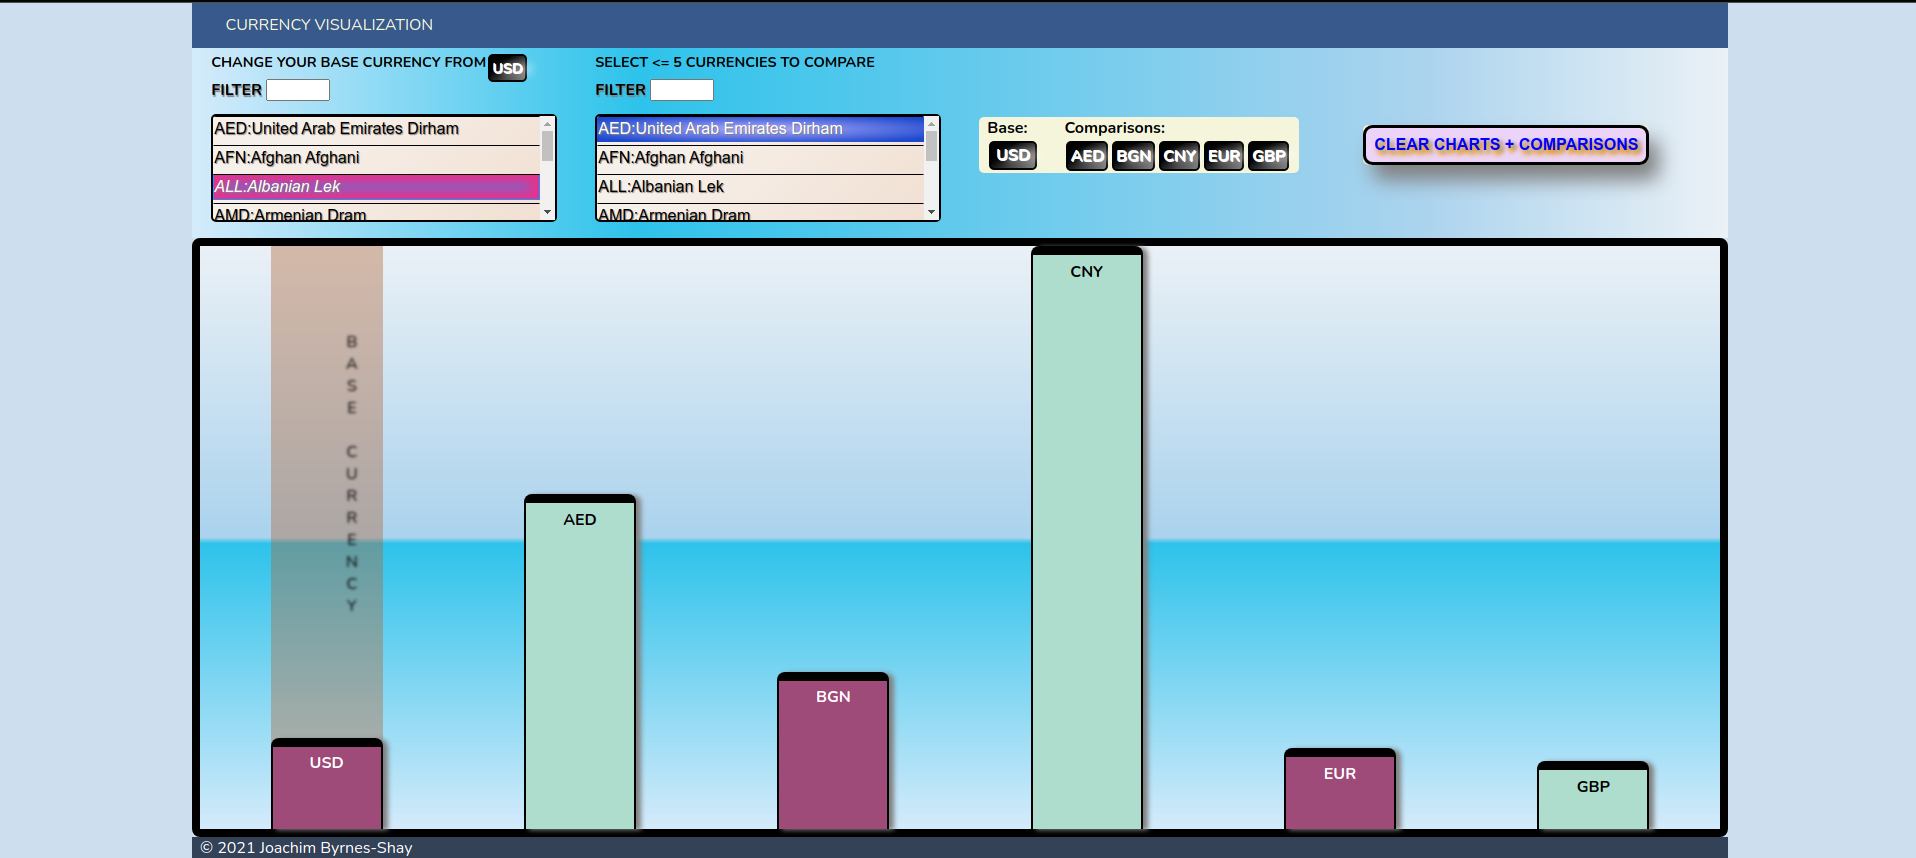
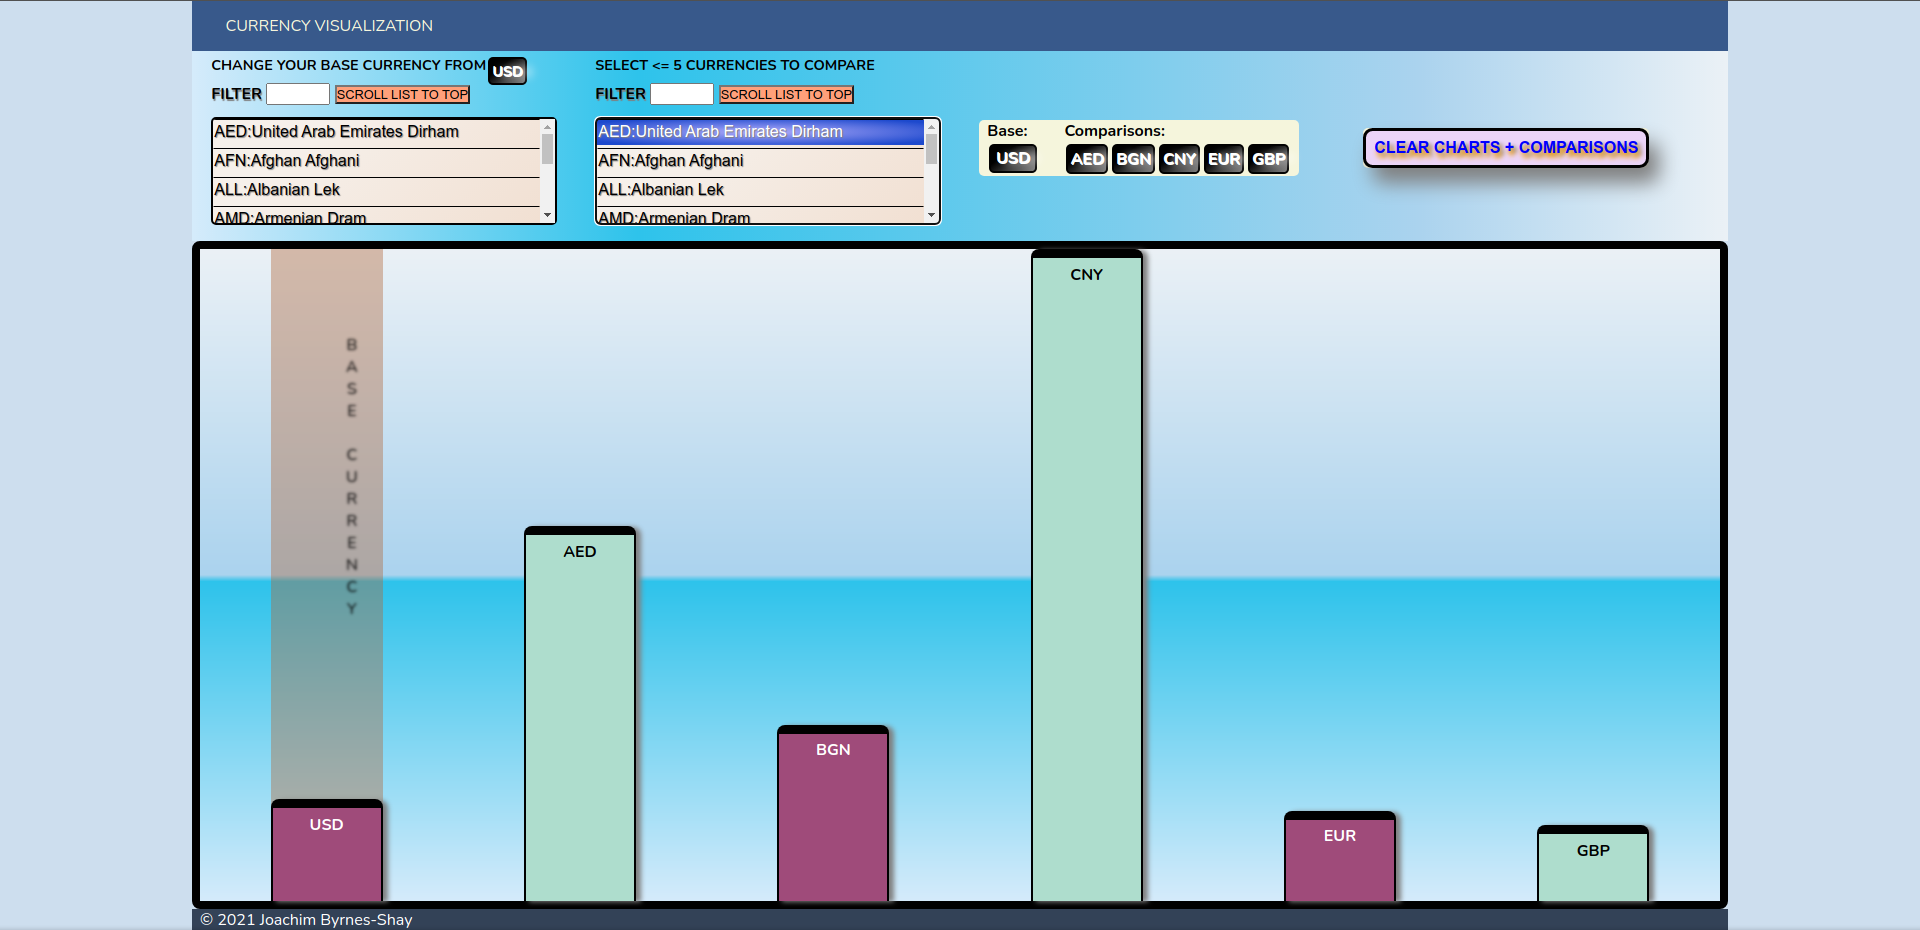
updated screenshot

diff --git a/css/configuration.css b/css/configuration.css
@@ -117,6 +117,13 @@
   padding: 2px;
 }
 
+.Configure-baseListScrollTopIntoView,
+.Configure-comparisonsListScrollTopIntoView {
+  background: lightsalmon;
+  font-size: .8em;
+  text-transform: uppercase;
+}
+
 .Configure-baseHeadingValue {
   position: absolute;
   display: inline-block;
